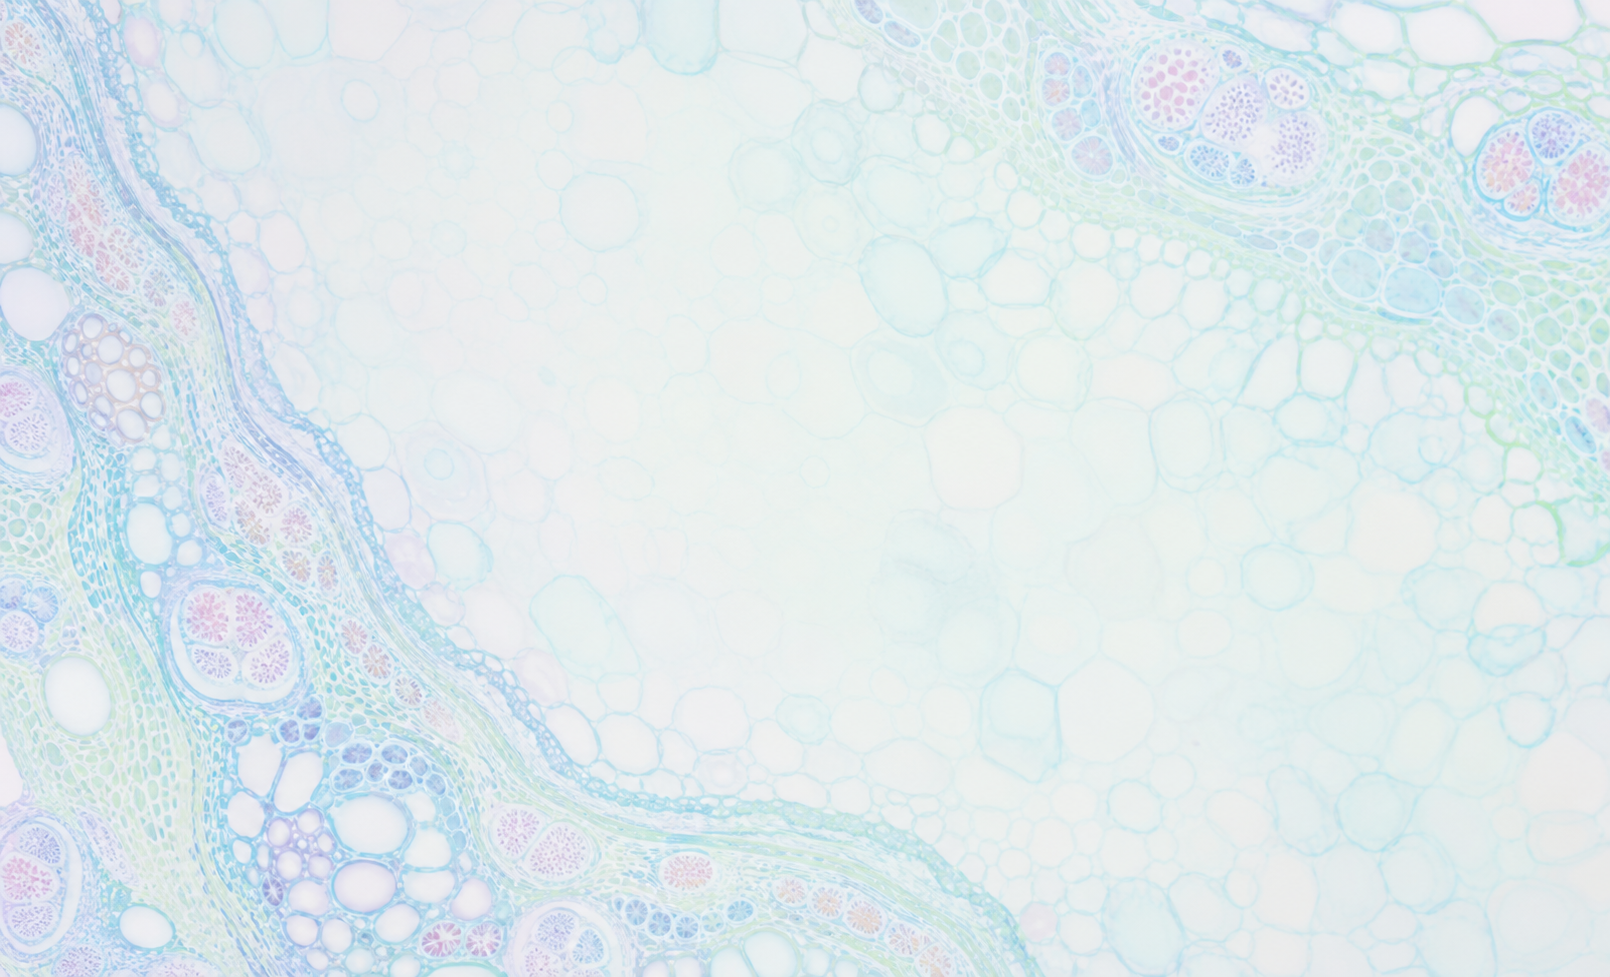
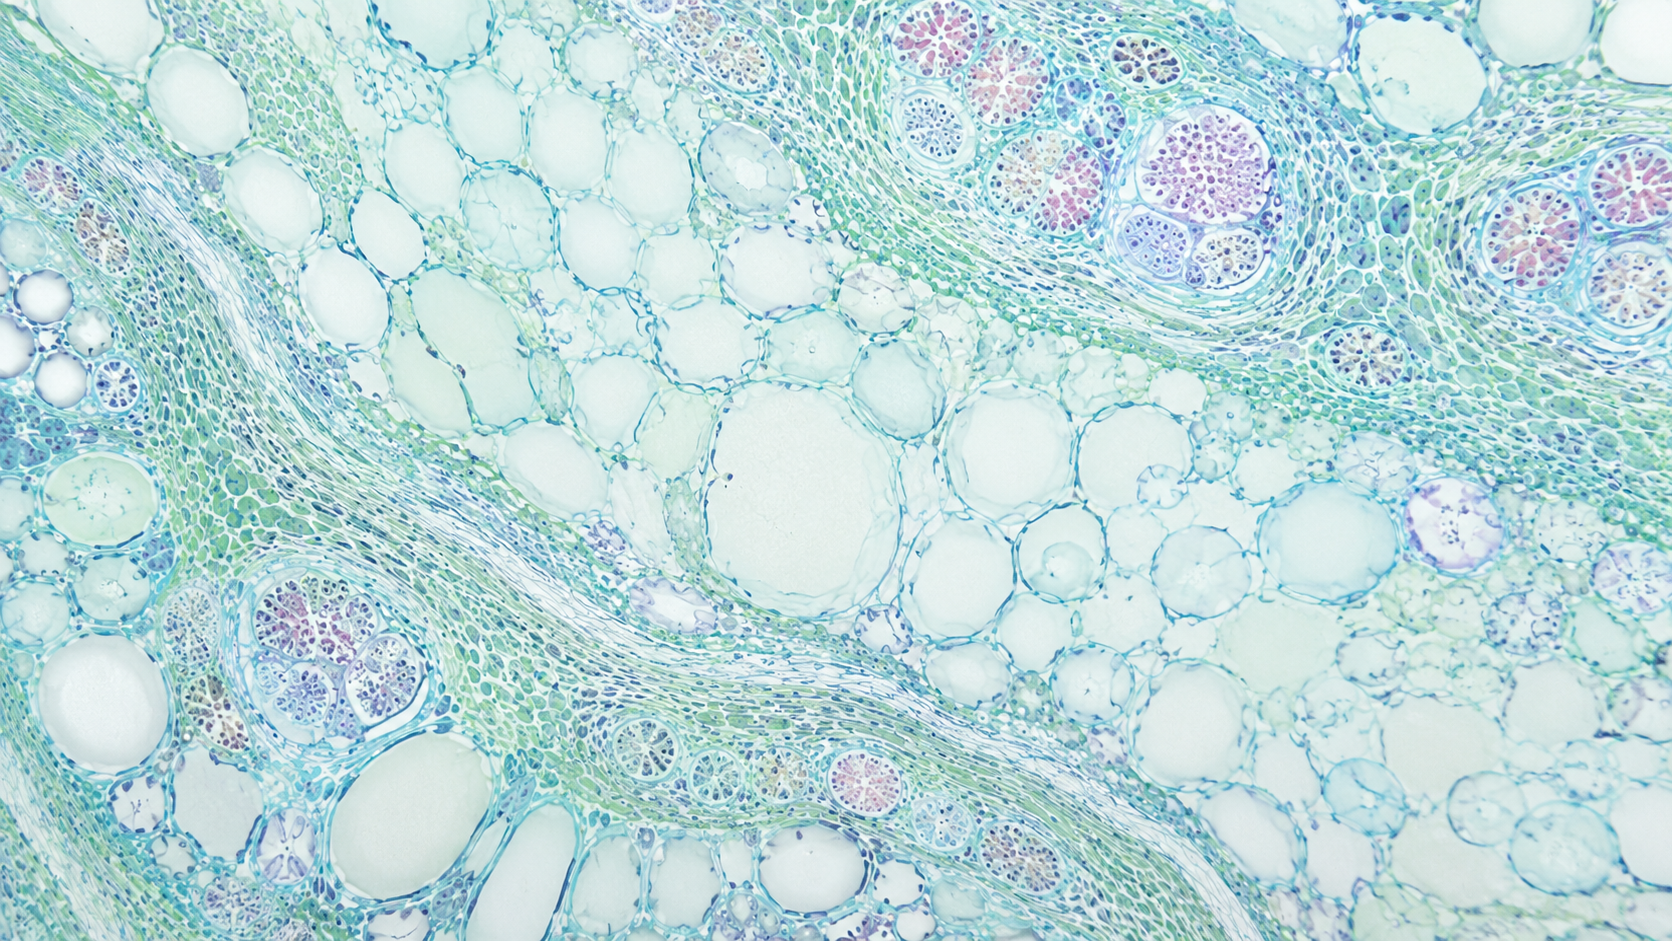
bug

diff --git a/ApplicationCreationPlateau/src/ihm/FenetreParametres.java b/ApplicationCreationPlateau/src/ihm/FenetreParametres.java
@@ -115,36 +115,30 @@ public class FenetreParametres extends JFrame
 
 	public void traiterEnregistrement()
 	{
-		if (!this.appliquerParametresPlateau(false))
+		if (!this.appliquerParametresPlateau())
 		{
 			return;
 		}
 
-		int nombreZones = this.panelParametres.getNombreZonesChoisi();
-		File fichier = this.choisirDestinationEnregistrement();
+		this.enregistrerDansFichier(this.fichierPlateauCourant);
+	}
+
+	public void traiterEnregistrementCopie()
+	{
+		if (!this.appliquerParametresPlateau())
+		{
+			return;
+		}
+
+		File fichier = this.choisirFichierCopie(new File("../PlateauData"));
 		if (fichier == null)
 		{
 			return;
 		}
-
-		try
-		{
-			this.gestionPlateau.enregistrerPlateau(this.plateau, nombreZones, fichier);
-			this.afficherMessage(
-					"Le plateau a ete enregistre dans " + fichier.getName() + ".");
-		}
-		catch (IOException exception)
-		{
-			this.afficherMessage("Enregistrement impossible : " + exception.getMessage());
-		}
+		this.enregistrerDansFichier(fichier);
 	}
 
 	public boolean appliquerParametresPlateau()
-	{
-		return this.appliquerParametresPlateau(true);
-	}
-
-	private boolean appliquerParametresPlateau(boolean afficherConfirmation)
 	{
 		int largeur;
 		int hauteur;
@@ -175,11 +169,22 @@ public class FenetreParametres extends JFrame
 				nombreZones, this.panelParametres.getTypePiocheChoisi());
 		this.actualiserTailleEditeur();
 		this.panelEditeur.repaint();
-		if (afficherConfirmation)
-		{
-			this.afficherMessage("Les parametres du plateau ont ete appliques.");
-		}
 		return true;
+	}
+
+	private void enregistrerDansFichier(File fichier)
+	{
+		try
+		{
+			this.gestionPlateau.enregistrerPlateau(this.plateau,
+					this.panelParametres.getNombreZonesChoisi(), fichier);
+			this.afficherMessage(
+					"Le plateau a ete enregistre dans " + fichier.getName() + ".");
+		}
+		catch (IOException exception)
+		{
+			this.afficherMessage("Enregistrement impossible : " + exception.getMessage());
+		}
 	}
 
 	public void actualiserTailleEditeur()
@@ -217,29 +222,6 @@ public class FenetreParametres extends JFrame
 			return null;
 		}
 		return choixFichier.getSelectedFile();
-	}
-
-	private File choisirDestinationEnregistrement()
-	{
-		Object[] choix = {"Enregistrer le fichier actuel", "Creer une copie", "Annuler"};
-		int reponse = JOptionPane.showOptionDialog(this,
-				"Voulez-vous enregistrer le fichier actuel ou creer une copie ?",
-				"Enregistrer le plateau",
-				JOptionPane.YES_NO_CANCEL_OPTION,
-				JOptionPane.QUESTION_MESSAGE,
-				null,
-				choix,
-				choix[0]);
-
-		if (reponse == 0)
-		{
-			return this.fichierPlateauCourant;
-		}
-		if (reponse == 1)
-		{
-			return this.choisirFichierCopie(new File("../PlateauData"));
-		}
-		return null;
 	}
 
 	private File choisirFichierCopie(File dossier)

diff --git a/ApplicationCreationPlateau/src/metier/Zone.java b/ApplicationCreationPlateau/src/metier/Zone.java
@@ -88,6 +88,60 @@ public class Zone
 		return false;
 	}
 
+	public boolean estConnexe()
+	{
+		if (this.cases.size() <= 1)
+		{
+			return true;
+		}
+
+		ArrayList<Case> casesVisitees = new ArrayList<Case>();
+		ArrayList<Case> casesAVisiter = new ArrayList<Case>();
+		casesAVisiter.add(this.cases.get(0));
+
+		while (!casesAVisiter.isEmpty())
+		{
+			Case caseCourante = casesAVisiter.remove(0);
+			if (!this.contientCaseDansListe(casesVisitees, caseCourante))
+			{
+				casesVisitees.add(caseCourante);
+				this.ajouterVoisinesNonVisitees(caseCourante, casesVisitees, casesAVisiter);
+			}
+		}
+
+		return casesVisitees.size() == this.cases.size();
+	}
+
+	private void ajouterVoisinesNonVisitees(Case caseCourante, ArrayList<Case> casesVisitees,
+			ArrayList<Case> casesAVisiter)
+	{
+		for (int i = 0; i < this.cases.size(); i++)
+		{
+			Case caseZone = this.cases.get(i);
+			int ecartColonne = Math.abs(caseCourante.getColonne() - caseZone.getColonne());
+			int ecartLigne = Math.abs(caseCourante.getLigne() - caseZone.getLigne());
+			if (ecartColonne + ecartLigne == 1 &&
+					!this.contientCaseDansListe(casesVisitees, caseZone) &&
+					!this.contientCaseDansListe(casesAVisiter, caseZone))
+			{
+				casesAVisiter.add(caseZone);
+			}
+		}
+	}
+
+	private boolean contientCaseDansListe(ArrayList<Case> liste, Case caseCherchee)
+	{
+		for (int i = 0; i < liste.size(); i++)
+		{
+			Case caseListe = liste.get(i);
+			if (caseListe.memesCoordonnees(caseCherchee.getColonne(), caseCherchee.getLigne()))
+			{
+				return true;
+			}
+		}
+		return false;
+	}
+
 	public void supprimerCase(int colonne, int ligne)
 	{
 		int i = 0;

diff --git a/ApplicationCreationPlateau/src/metier/Plateau.java b/ApplicationCreationPlateau/src/metier/Plateau.java
@@ -226,6 +226,21 @@ public class Plateau
 		return true;
 	}
 
+	public Zone getZoneSeparee(int nombreZones)
+	{
+		int id = 1;
+		while (id <= nombreZones)
+		{
+			Zone zone = this.getZoneParId(id);
+			if (zone != null && !zone.estConnexe())
+			{
+				return zone;
+			}
+			id++;
+		}
+		return null;
+	}
+
 	public boolean toutesCasesOntUneZone()
 	{
 		for (int colonne = 0; colonne < this.largeur; colonne++)

diff --git a/ApplicationCreationPlateau/src/ihm/PanelBarreEdition.java b/ApplicationCreationPlateau/src/ihm/PanelBarreEdition.java
@@ -23,6 +23,7 @@ public class PanelBarreEdition extends JPanel implements ActionListener
 	private JComboBox<Couleur>   comboCouleurBase;
 	private JButton boutonOuvrir;
 	private JButton boutonEnregistrer;
+	private JButton boutonCopie;
 
 	/*------------------*/
 	/*   Constructeur   */
@@ -40,6 +41,7 @@ public class PanelBarreEdition extends JPanel implements ActionListener
 		this.comboCouleurBase  = new JComboBox<>(Couleur.values());
 		this.boutonOuvrir      = new JButton("Ouvrir");
 		this.boutonEnregistrer = new JButton("Enregistrer le plateau");
+		this.boutonCopie       = new JButton("Copie");
 
 		this.comboModeEdition.addItem("Dessiner une zone");
 		this.comboModeEdition.addItem("Placer un atome");
@@ -63,12 +65,14 @@ public class PanelBarreEdition extends JPanel implements ActionListener
 		this.add(this.comboCouleurBase);
 		this.add(this.boutonOuvrir);
 		this.add(this.boutonEnregistrer);
+		this.add(this.boutonCopie);
 
 		/*-------------------------*/
 		/* Ajout des listeners     */
 		/*-------------------------*/
 		this.boutonOuvrir.addActionListener(this);
 		this.boutonEnregistrer.addActionListener(this);
+		this.boutonCopie.addActionListener(this);
 		this.comboModeEdition.addActionListener(this);
 		this.comboTypeAtome.addActionListener(this);
 		this.comboCouleurBase.addActionListener(this);
@@ -108,6 +112,10 @@ public class PanelBarreEdition extends JPanel implements ActionListener
 		if (e.getSource() == this.boutonEnregistrer)
 		{
 			this.fenetreParametres.traiterEnregistrement();
+		}
+		if (e.getSource() == this.boutonCopie)
+		{
+			this.fenetreParametres.traiterEnregistrementCopie();
 		}
 		if (e.getSource() == this.comboTypeAtome)
 		{

diff --git a/ApplicationCreationPlateau/src/metier/GestionPlateau.java b/ApplicationCreationPlateau/src/metier/GestionPlateau.java
@@ -108,6 +108,12 @@ public class GestionPlateau
 		{
 			throw new IOException("Chaque zone doit contenir au moins une case.");
 		}
+		Zone zoneSeparee = plateau.getZoneSeparee(nombreZones);
+		if (zoneSeparee != null)
+		{
+			throw new IOException("La zone " + zoneSeparee.getId() +
+					" est separee en plusieurs morceaux.");
+		}
 
 		plateau.calculerVoisinsAtomes();
 		Atome atomeIsole = plateau.getAtomeIsole();